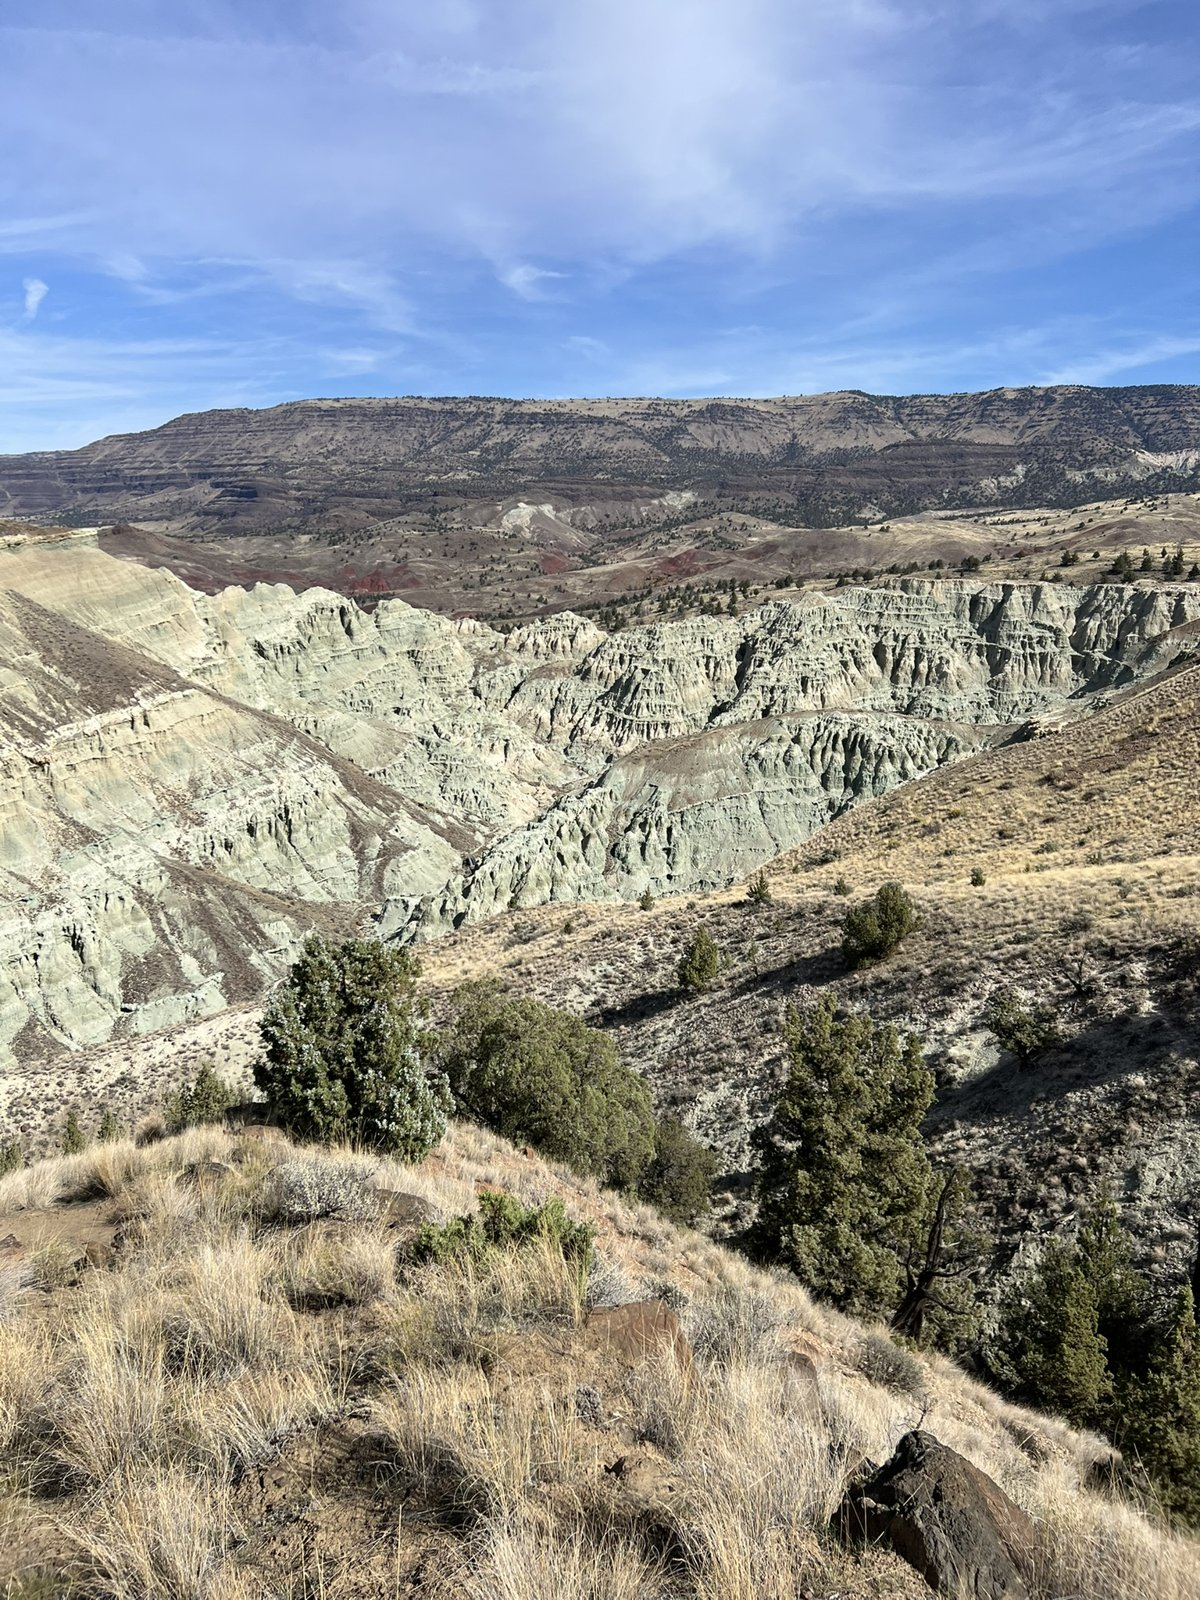
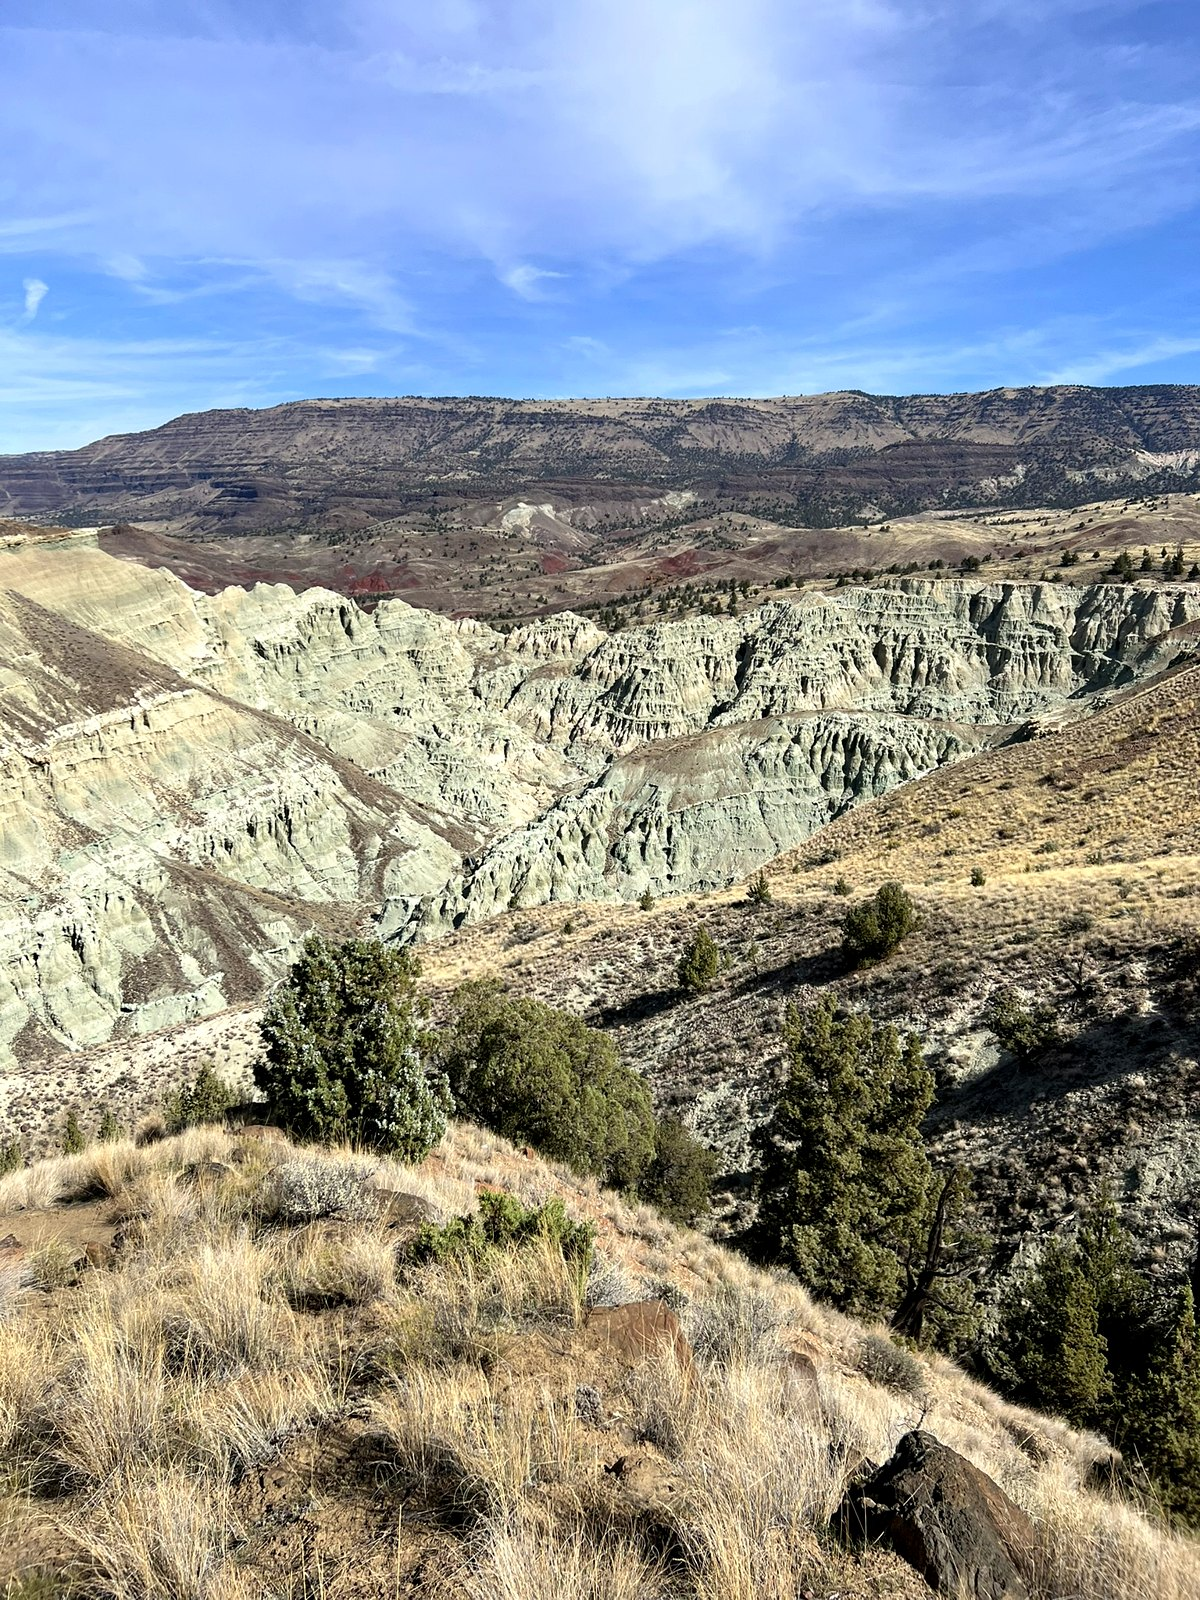
About: touch up the Blue Basin photos; side-by-side posts match in height

diff --git a/index.html b/index.html
@@ -324,7 +324,8 @@
   /* Posts: cards like the job cards, photo on top, tag and date, then the caption.
      Two columns on wide screens, one on narrow. */
   .feed { display: grid; grid-template-columns: 1fr; gap: 14px; margin-top: 28px; }
-  @media (min-width: 1200px) { .feed { grid-template-columns: repeat(2, 1fr); align-items: start; } }
+  /* Two columns on wide screens; cards side by side always match in height (stretch) */
+  @media (min-width: 1200px) { .feed { grid-template-columns: repeat(2, 1fr); align-items: stretch; } }
   .post {
     background: var(--paper); border: 1px solid var(--ink); border-radius: var(--radius-lg);
     overflow: hidden;
